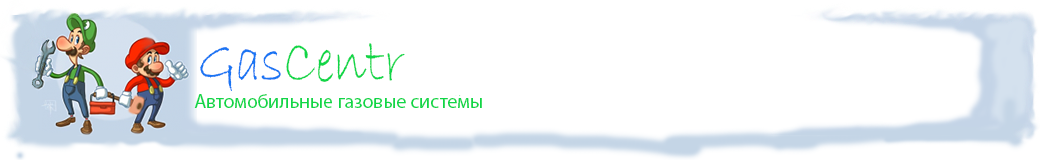
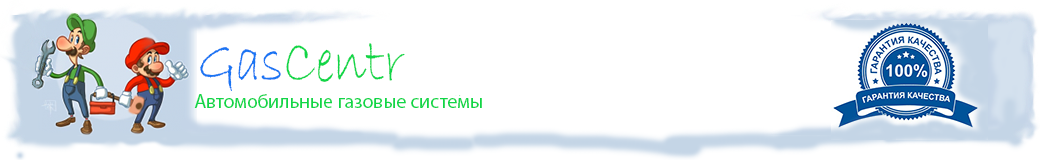
Initial

Changed region(s): [[0.8, 0.125, 0.9538, 0.8125], [0.0615, 0.125, 0.0923, 0.1875]]

diff --git a/css/mobile-index.css b/css/mobile-index.css
@@ -20,8 +20,12 @@ body {
 }
 
 .imageIDpng {
-    width: 80%;
+    position: absolute;
+    top:0px;
+    right:0px;
+    width: 40%;
     padding: 10px;
+    padding-bottom: 10px;
 }
 
 nav {
@@ -43,12 +47,14 @@ nav ul {
     margin: 0;
     padding: 0;
     background-color: white;
+
 }
 
 nav li {
     display: inline;
     text-align: center;
     padding-right: 800px;
+    
 }
 
 nav li a:hover {

diff --git a/css/mobile-block.css b/css/mobile-block.css
@@ -7,8 +7,10 @@ h1 {
 }
 
 .block3 {
-    position: inherit;
+    position: relative;
     text-align: center;
+    margin-top: 22%;
+    
 }
 
 div .block4 {
